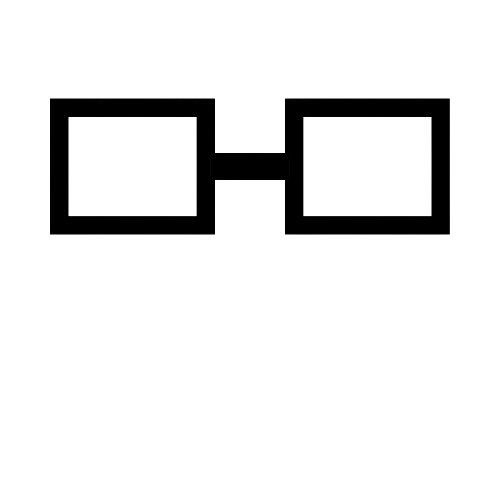
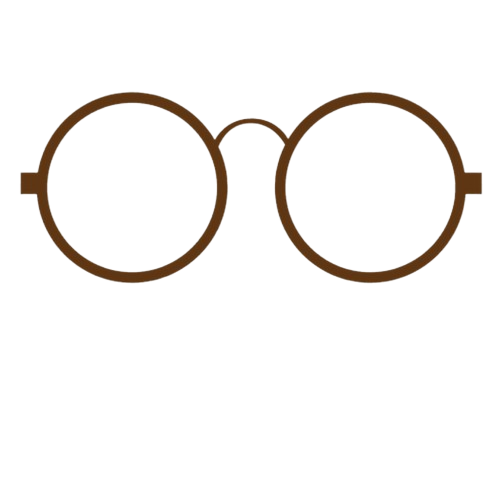
Atualizando

Changed region(s): [[0.03, 0.18, 0.99, 0.57]]

diff --git a/aula.py b/aula.py
@@ -14,6 +14,8 @@ emojis = {
     ord('5'): 'venv/imagens/juliet.png',
     ord('6'): 'venv/imagens/armacao.png',
     ord('7'): 'venv/imagens/will_smith.png',
+    ord('8'): 'venv/imagens/oculosrosa.png',
+    ord('9'): 'venv/imagens/oculosamarelo.png', 
 }
 
 current_emoji = None
